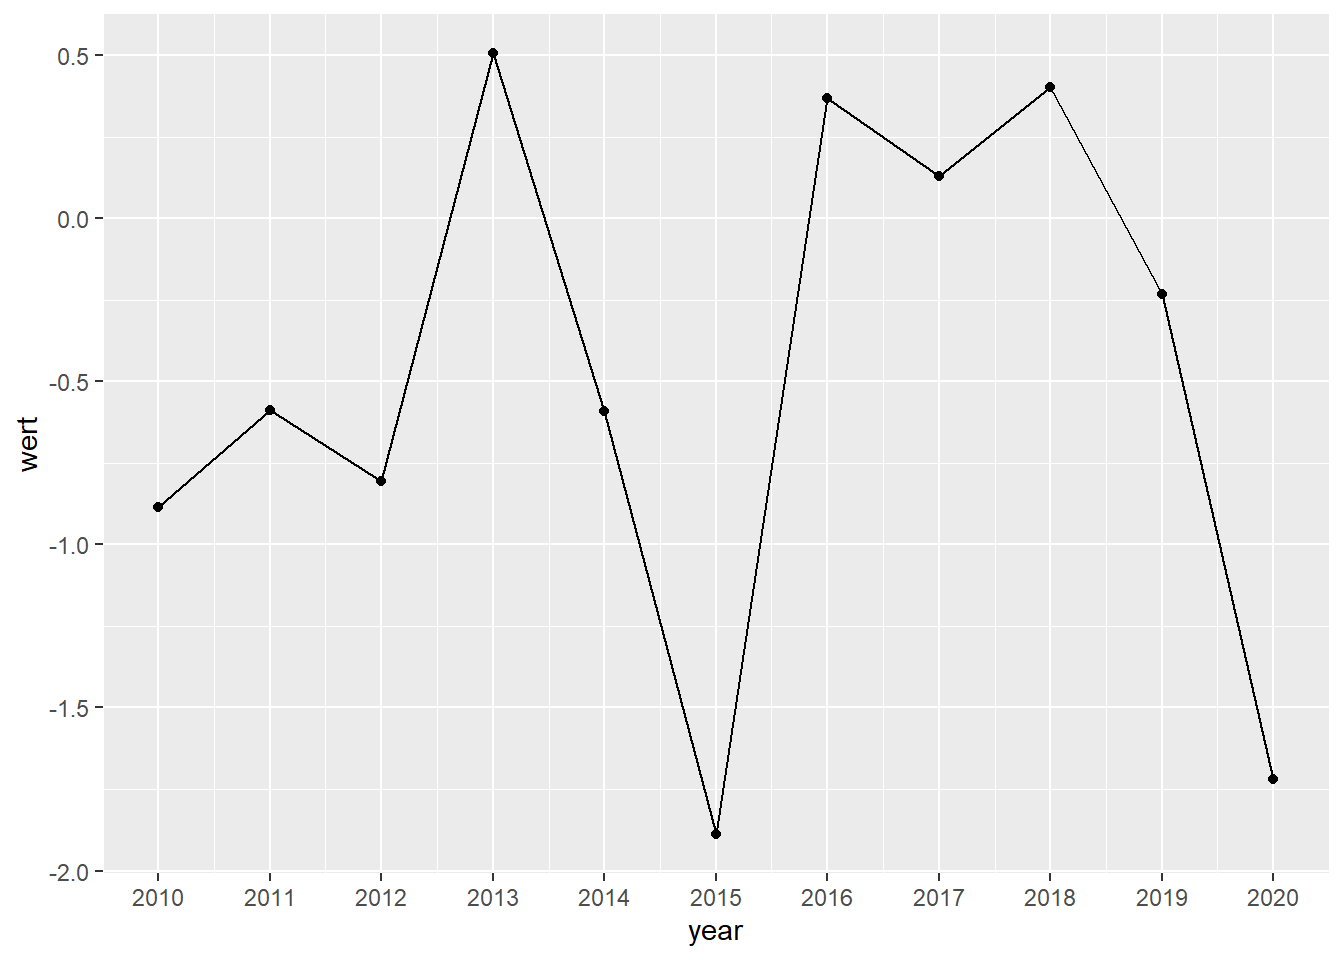
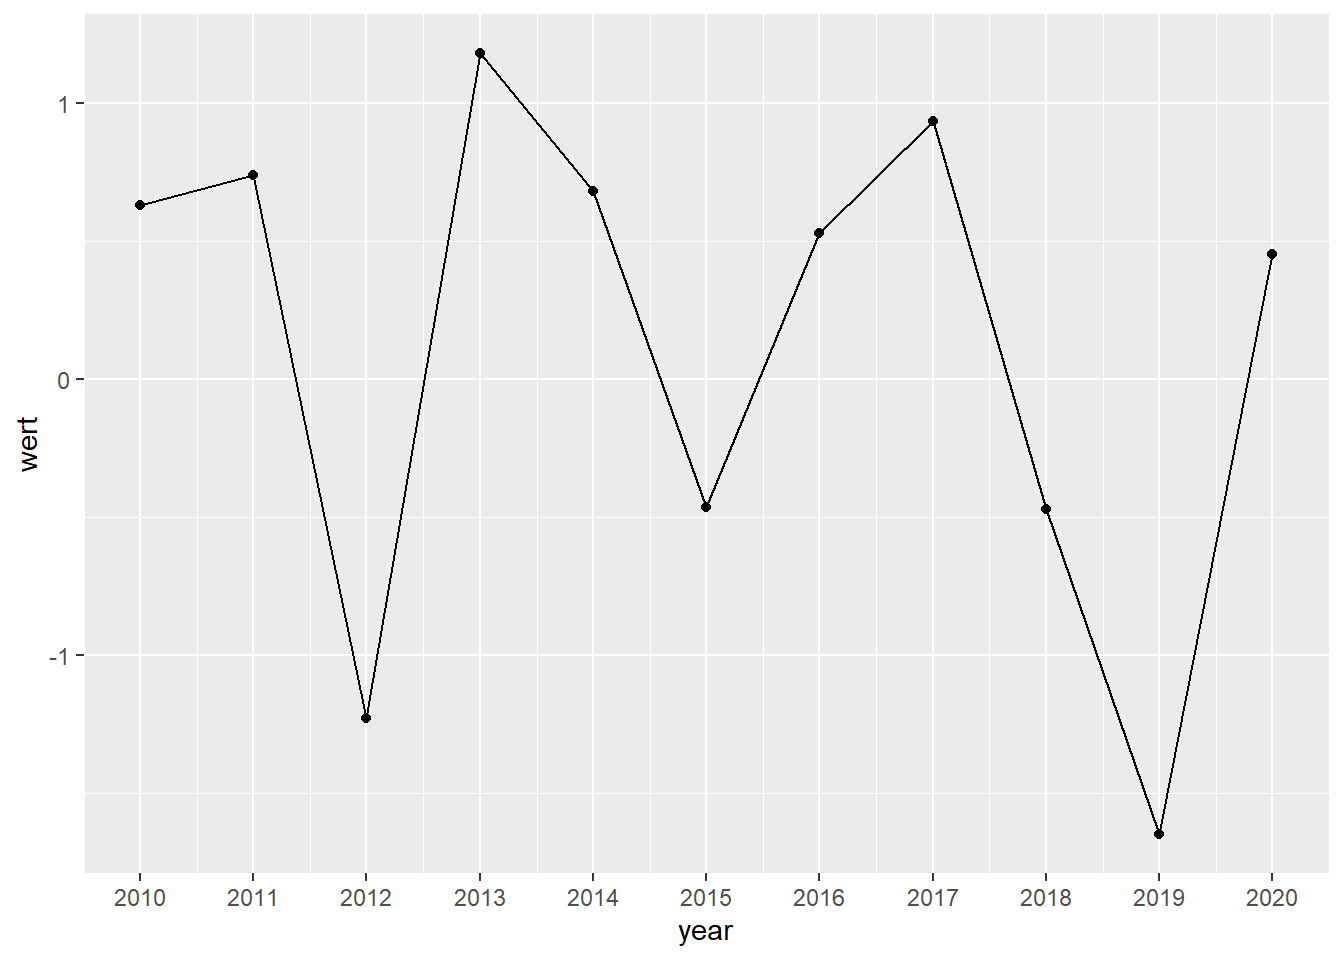
Updated exercise 5

diff --git a/docs/FAQs.html b/docs/FAQs.html
@@ -497,17 +497,17 @@ der Beschriftung dann Jahre ausgelassen:</p>
 <pre><code>## # A tibble: 11 x 2
 ##     year   wert
 ##    &lt;int&gt;  &lt;dbl&gt;
-##  1  2010 -0.885
-##  2  2011 -0.588
-##  3  2012 -0.805
-##  4  2013  0.506
-##  5  2014 -0.592
-##  6  2015 -1.89 
-##  7  2016  0.369
-##  8  2017  0.131
-##  9  2018  0.402
-## 10  2019 -0.232
-## 11  2020 -1.72</code></pre>
+##  1  2010  0.632
+##  2  2011  0.738
+##  3  2012 -1.23 
+##  4  2013  1.18 
+##  5  2014  0.682
+##  6  2015 -0.466
+##  7  2016  0.528
+##  8  2017  0.934
+##  9  2018 -0.473
+## 10  2019 -1.65 
+## 11  2020  0.453</code></pre>
 <pre class="r"><code># Problemplot
 daten |&gt;
           ggplot(aes(x = year, y = wert)) +
